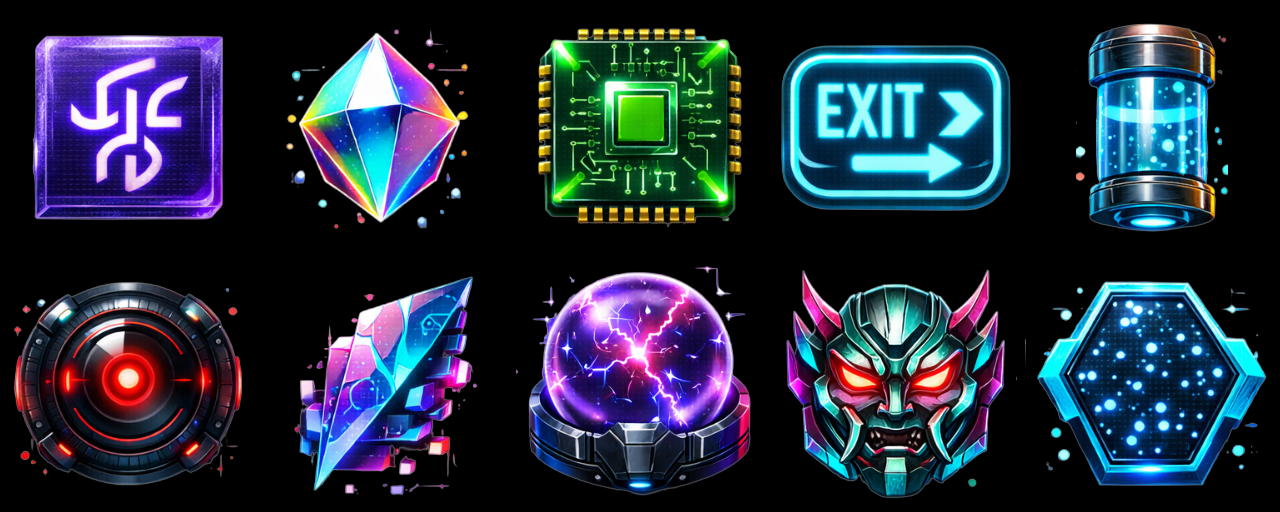
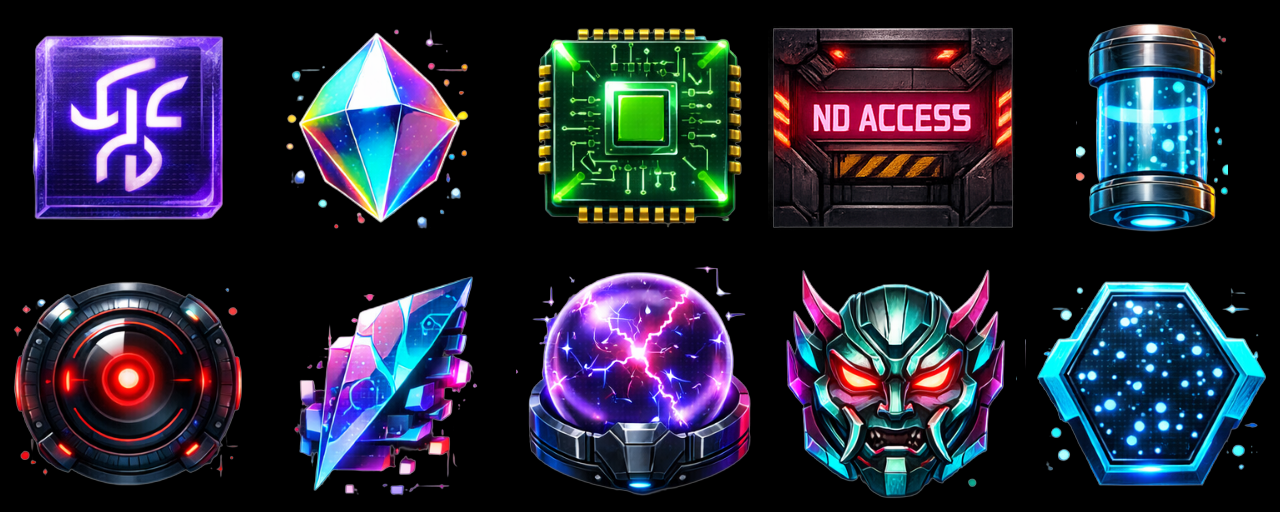
Changed blocktile sprite

Changed region(s): [[0.5938, 0.0312, 0.8125, 0.4688]]

diff --git a/src/features/grid/ui/GridCellsLayer.tsx b/src/features/grid/ui/GridCellsLayer.tsx
@@ -24,7 +24,10 @@ export default function GridCellsLayer({ width, height, cells, onCellPointerDown
       {cells.map((cell, index) => {
         const isGate = cell.obstacle === 'gate';
         const isFirewall = cell.obstacle === 'firewall';
+
         const { x, y } = xyOf(index, width);
+
+        // bottom-right 2x2 (blocked) should show the old "gate" sprite (4th sprite)
         const isCornerBlocked = cell.blocked && !isGate && !isFirewall && x >= width - 2 && y >= height - 2;
 
         const blockedOverlayStyle: React.CSSProperties | undefined =
@@ -49,6 +52,7 @@ export default function GridCellsLayer({ width, height, cells, onCellPointerDown
               };
             })()
           : undefined;
+
         const cornerSprite = isCornerBlocked ? getGateSprite(false) : null;
 
         const cornerSpriteStyle: React.CSSProperties | undefined = cornerSprite
@@ -63,16 +67,20 @@ export default function GridCellsLayer({ width, height, cells, onCellPointerDown
             })()
           : undefined;
 
-
         const base = [
           'relative rounded-xl border',
           'focus:outline-none',
           'transition-transform duration-150',
-          isGate ? 'border-white/10 bg-[#111827]' : isFirewall ? 'border-cyan-300/25 bg-slate-950/70' : cell.blocked ? 'border-slate-700 bg-slate-900' : 'border-white/10 bg-[#111827]',
+          isGate
+            ? 'border-white/10 bg-[#111827]'
+            : isFirewall
+              ? 'border-cyan-300/25 bg-slate-950/70'
+              : cell.blocked
+                ? 'border-slate-700 bg-slate-900'
+                : 'border-white/10 bg-[#111827]',
           cell.blocked ? '' : 'shadow-sm',
           'hover:scale-[1.02]',
         ].join(' ');
-
 
         return (
           <button
@@ -99,9 +107,7 @@ export default function GridCellsLayer({ width, height, cells, onCellPointerDown
                 <div
                   className={[
                     'absolute inset-2 rounded-lg border border-white/10',
-                    cell.gateOpen
-                      ? 'bg-emerald-500/10 shadow-[0_0_18px_rgba(16,185,129,0.18)]'
-                      : 'bg-fuchsia-500/10 shadow-[0_0_18px_rgba(217,70,239,0.18)]',
+                    cell.gateOpen ? 'bg-emerald-500/10 shadow-[0_0_18px_rgba(16,185,129,0.18)]' : 'bg-fuchsia-500/10 shadow-[0_0_18px_rgba(217,70,239,0.18)]',
                   ].join(' ')}
                 />
               </>
@@ -143,4 +149,3 @@ export default function GridCellsLayer({ width, height, cells, onCellPointerDown
     </div>
   );
 }
-
